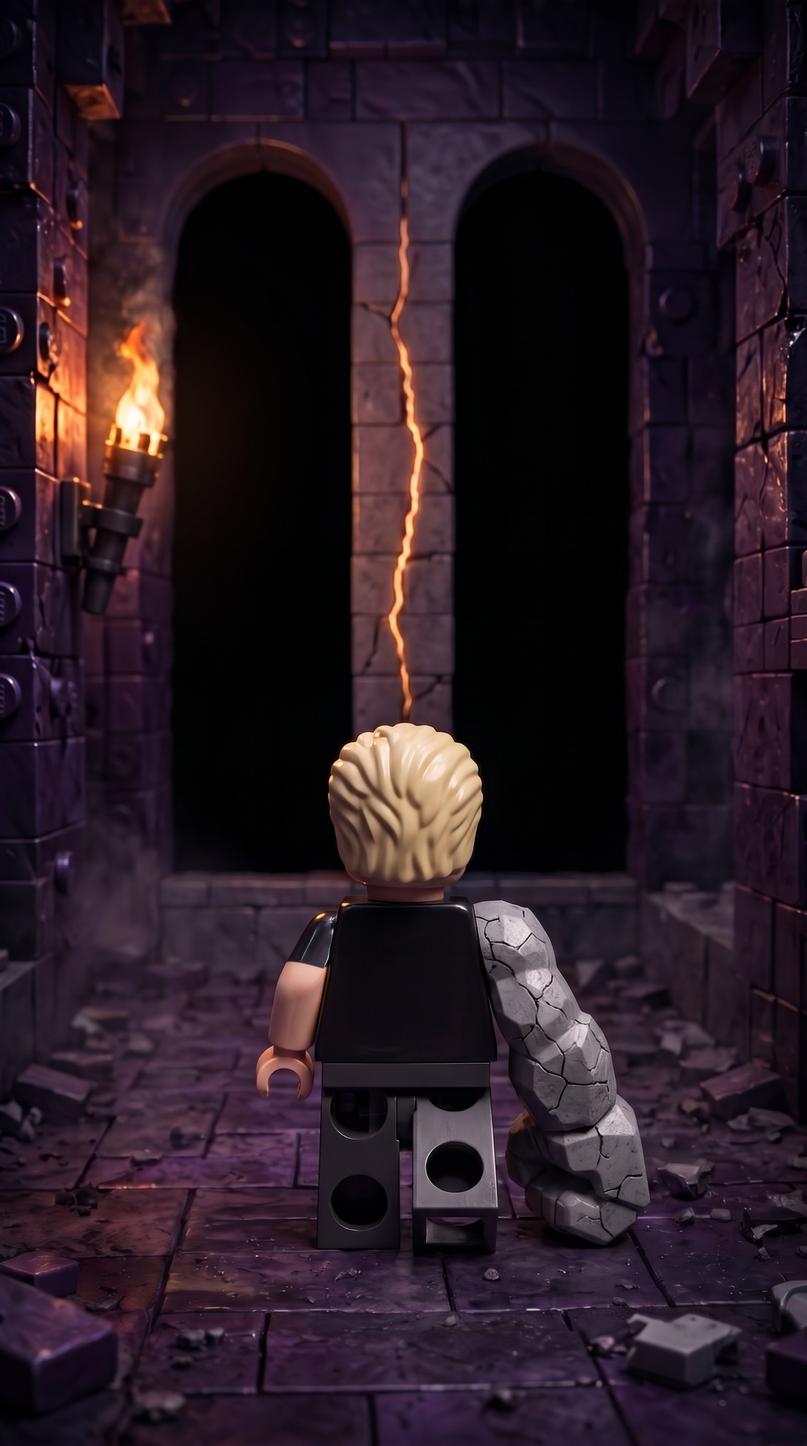
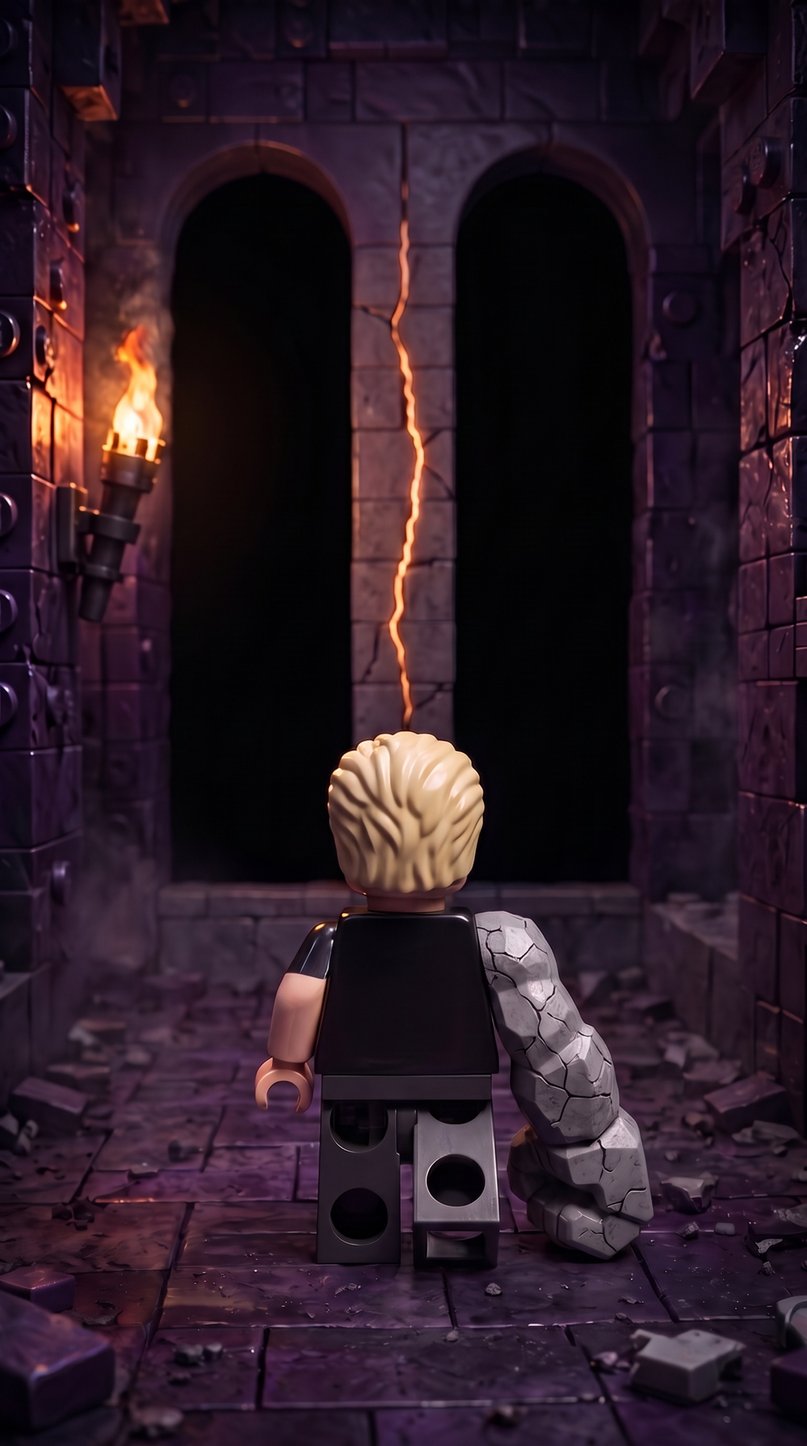
100 BRICKS Part 2: arm locked as its own Element, four stills redone, job ids and misses recorded
Claude-Session: https://claude.ai/code/session_01D6uojWqNSypgULnvSMfetJ

diff --git a/series/1000-bricks/episodes/ep02/SCRIPT.md b/series/1000-bricks/episodes/ep02/SCRIPT.md
@@ -132,3 +132,24 @@ is the one the clip starts from. 22 credits: the edit 2, four clips at 5. Part 2
 | 6 | grok lite | `40823bd7-874c-4983-bf6e-665badb8725e` | Head turns to the lit corridor, then the dark one. Line 6 runs 14 s, so the clip plays forward and back (`"loop"` in `episode.json`). |
 
 The cut is built by the `100 BRICKS assemble` workflow (picture-only until Muse's lines 1 and 2 are in `voice/`).
+
+## The arm redo (26 Nov)
+
+His notes on the first cut: "The figure walks up with 2 arms. Almost merges with my character then has one arm. The
+stone arm isn't the same as the first episode." The arm had been described in words and came back three ways.
+
+- **Arm, locked**: prop Element `a78d76df-d438-42bd-8be1-063f59e6e47a` (media `3e963e04-78d8-4f58-b130-080740538aaf`,
+  a crop with no face). Front reference job `a6db187d-1c33-489f-8aa6-cd2906df6c41` (its face drifted: never use it for
+  the face). Back reference job `55be0236-7f76-44f5-9bf4-3be250fcb0d6`.
+- First redo of the four stills as edits naming "his right arm": one right of four, 8 credits. From behind, "right"
+  flips and the model had no back view. Second redo named the arm by its side of the picture, with the back view.
+
+| Shot | Job id now | Check against Part 1's arm |
+|---|---|---|
+| 1 | `17f55e8f-2eb7-4599-b975-8c5d47af1ab7` | Giant fist with rock forearm joined to it. |
+| 2 | `f9e5bf8d-e9bb-4579-9682-cb66764991ae` | Right: whole rock arm from the shoulder. |
+| 3 | `d9687bb4-aba0-4d9f-a018-5f166e4e2447` | Thicker, but the fist is still smaller than Part 1's. |
+| 6 | `be5d6acf-eb1c-49c8-b92a-002df4694e63` | Thick rock arm. The figure came back larger in frame, legs black. |
+
+Credits on this redo so far: 2 + 2 (reference and its chest fix) + 8 + 2 + 6 = 20. Balance 71.64. The four clips are
+not remade yet and wait on his yes (20).
